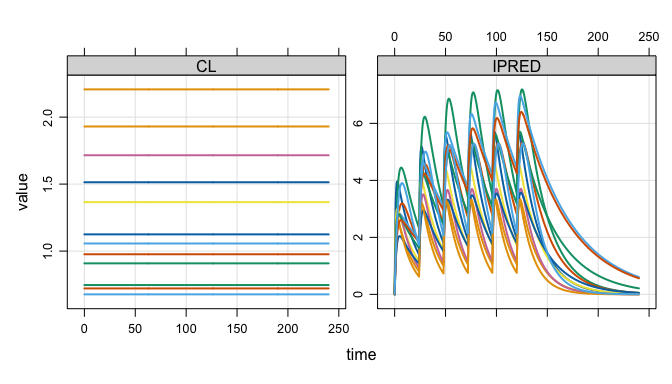
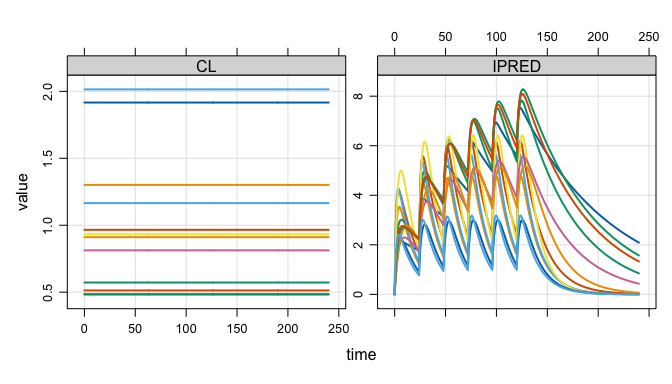
readme

diff --git a/README.md b/README.md
@@ -11,7 +11,10 @@
 Arrow](https://arrow.apache.org/docs/r/)-backed simulation output object
 for [mrgsolve](https://mrgsolve.org), greatly reducing the memory
 footprint of large simulations and providing a high-performance pipeline
-for summarizing huge simulation outputs.
+for summarizing huge simulation outputs. Simulation output objects in R
+claim ownership of files on disk and those files are automatically
+removed when owing object goes out of scope and becomes subject to the R
+garbage collector.
 
 ## Installation
 
@@ -49,15 +52,15 @@ out
 . Dim  : 1.4M 4
 . Files: 1 [11.9 Mb]
 . Owner: yes
-.     ID time      CL    IPRED
-. 1:   1  0.0 1.12485 0.000000
-. 2:   1  0.0 1.12485 0.000000
-. 3:   1  0.5 1.12485 2.175538
-. 4:   1  1.0 1.12485 3.231416
-. 5:   1  1.5 1.12485 3.717221
-. 6:   1  2.0 1.12485 3.913408
-. 7:   1  2.5 1.12485 3.963078
-. 8:   1  3.0 1.12485 3.939234
+.     ID time        CL     IPRED
+. 1:   1  0.0 0.4842856 0.0000000
+. 2:   1  0.0 0.4842856 0.0000000
+. 3:   1  0.5 0.4842856 0.9074613
+. 4:   1  1.0 0.4842856 1.4488692
+. 5:   1  1.5 0.4842856 1.7698885
+. 6:   1  2.0 0.4842856 1.9582301
+. 7:   1  2.5 0.4842856 2.0667081
+. 8:   1  3.0 0.4842856 2.1271241
 ```
 
 ## Very lightweight simulation output object
@@ -67,7 +70,7 @@ a pointer to the data in parquet files on your disk.
 
 ``` r
 basename(out$files)
-. [1] "mrgsims-ds-123d37139ddd4.parquet"
+. [1] "mrgsims-ds-138295379a151.parquet"
 ```
 
 This means there is almost nothing inside the object itself
@@ -110,23 +113,23 @@ head(out)
 . # A tibble: 6 × 4
 .      ID  time    CL IPRED
 .   <dbl> <dbl> <dbl> <dbl>
-. 1     1   0    1.12  0   
-. 2     1   0    1.12  0   
-. 3     1   0.5  1.12  2.18
-. 4     1   1    1.12  3.23
-. 5     1   1.5  1.12  3.72
-. 6     1   2    1.12  3.91
+. 1     1   0   0.484 0    
+. 2     1   0   0.484 0    
+. 3     1   0.5 0.484 0.907
+. 4     1   1   0.484 1.45 
+. 5     1   1.5 0.484 1.77 
+. 6     1   2   0.484 1.96
 
 tail(out)
 . # A tibble: 6 × 4
-.      ID  time    CL   IPRED
-.   <dbl> <dbl> <dbl>   <dbl>
-. 1  3000  238.  1.69 0.00318
-. 2  3000  238   1.69 0.00308
-. 3  3000  238.  1.69 0.00298
-. 4  3000  239   1.69 0.00289
-. 5  3000  240.  1.69 0.00280
-. 6  3000  240   1.69 0.00271
+.      ID  time    CL  IPRED
+.   <dbl> <dbl> <dbl>  <dbl>
+. 1  3000  238.  1.16 0.0374
+. 2  3000  238   1.16 0.0366
+. 3  3000  238.  1.16 0.0358
+. 4  3000  239   1.16 0.0351
+. 5  3000  240.  1.16 0.0343
+. 6  3000  240   1.16 0.0336
 
 dim(out)
 . [1] 1446000       4
@@ -140,16 +143,16 @@ as_tibble(out)
 . # A tibble: 1,446,000 × 4
 .       ID  time    CL IPRED
 .    <dbl> <dbl> <dbl> <dbl>
-.  1     1   0    1.12  0   
-.  2     1   0    1.12  0   
-.  3     1   0.5  1.12  2.18
-.  4     1   1    1.12  3.23
-.  5     1   1.5  1.12  3.72
-.  6     1   2    1.12  3.91
-.  7     1   2.5  1.12  3.96
-.  8     1   3    1.12  3.94
-.  9     1   3.5  1.12  3.88
-. 10     1   4    1.12  3.80
+.  1     1   0   0.484 0    
+.  2     1   0   0.484 0    
+.  3     1   0.5 0.484 0.907
+.  4     1   1   0.484 1.45 
+.  5     1   1.5 0.484 1.77 
+.  6     1   2   0.484 1.96 
+.  7     1   2.5 0.484 2.07 
+.  8     1   3   0.484 2.13 
+.  9     1   3.5 0.484 2.16 
+. 10     1   4   0.484 2.17 
 . # ℹ 1,445,990 more rows
 ```
 
@@ -175,16 +178,16 @@ as_duckdb_ds(out)
 . # Database: DuckDB 1.4.3 [kyleb@Darwin 24.6.0:R 4.5.2/:memory:]
 .       ID  time    CL IPRED
 .    <dbl> <dbl> <dbl> <dbl>
-.  1     1   0    1.12  0   
-.  2     1   0    1.12  0   
-.  3     1   0.5  1.12  2.18
-.  4     1   1    1.12  3.23
-.  5     1   1.5  1.12  3.72
-.  6     1   2    1.12  3.91
-.  7     1   2.5  1.12  3.96
-.  8     1   3    1.12  3.94
-.  9     1   3.5  1.12  3.88
-. 10     1   4    1.12  3.80
+.  1     1   0   0.484 0    
+.  2     1   0   0.484 0    
+.  3     1   0.5 0.484 0.907
+.  4     1   1   0.484 1.45 
+.  5     1   1.5 0.484 1.77 
+.  6     1   2   0.484 1.96 
+.  7     1   2.5 0.484 2.07 
+.  8     1   3   0.484 2.13 
+.  9     1   3.5 0.484 2.16 
+. 10     1   4   0.484 2.17 
 . # ℹ more rows
 ```
 
@@ -219,13 +222,13 @@ collect(dd)
 .    <dbl> <dbl> <int>
 .  1   0    0     6000
 .  2   0.5  1.11  3000
-.  3   1    1.80  3000
+.  3   1    1.81  3000
 .  4   1.5  2.26  3000
 .  5   2    2.57  3000
 .  6   2.5  2.78  3000
-.  7   3    2.93  3000
+.  7   3    2.92  3000
 .  8   3.5  3.02  3000
-.  9   4    3.08  3000
+.  9   4    3.07  3000
 . 10   4.5  3.11  3000
 . # ℹ 471 more rows
 ```
@@ -249,15 +252,15 @@ out2
 . Dim  : 14.5M 4
 . Files: 10 [119.1 Mb]
 . Owner: yes
-.     ID time       CL     IPRED
-. 1:   1  0.0 1.622721 0.0000000
-. 2:   1  0.0 1.622721 0.0000000
-. 3:   1  0.5 1.622721 0.6687251
-. 4:   1  1.0 1.622721 1.2090445
-. 5:   1  1.5 1.622721 1.6419841
-. 6:   1  2.0 1.622721 1.9852293
-. 7:   1  2.5 1.622721 2.2536526
-. 8:   1  3.0 1.622721 2.4597577
+.     ID time       CL    IPRED
+. 1:   1  0.0 1.553522 0.000000
+. 2:   1  0.0 1.553522 0.000000
+. 3:   1  0.5 1.553522 1.815295
+. 4:   1  1.0 1.553522 2.995864
+. 5:   1  1.5 1.553522 3.738009
+. 6:   1  2.0 1.553522 4.178355
+. 7:   1  2.5 1.553522 4.411949
+. 8:   1  3.0 1.553522 4.504865
 ```
 
 ## Files on disk are automagically managed
@@ -267,11 +270,11 @@ All `arrow` files are stored in the `tempdir()` in parquet format
 ``` r
 list_temp()
 . 11 files [131.1 Mb]
-. - mrgsims-ds-123d37139ddd4.parquet
-. - mrgsims-ds-124104b8835e0.parquet
+. - mrgsims-ds-138295379a151.parquet
+. - mrgsims-ds-138662024d7fd.parquet
 .    ...
-. - mrgsims-ds-1241432785e39.parquet
-. - mrgsims-ds-1241479ff6168.parquet
+. - mrgsims-ds-1386a29e4a93d.parquet
+. - mrgsims-ds-1386a342dc8f6.parquet
 ```
 
 This directory is eventually removed when the R session ends. Tools are
@@ -283,11 +286,11 @@ retain_temp(out2)
 
 list_temp()
 . 10 files [119.1 Mb]
-. - mrgsims-ds-124104b8835e0.parquet
-. - mrgsims-ds-124105b892bdd.parquet
+. - mrgsims-ds-138662024d7fd.parquet
+. - mrgsims-ds-1386652e03387.parquet
 .    ...
-. - mrgsims-ds-1241432785e39.parquet
-. - mrgsims-ds-1241479ff6168.parquet
+. - mrgsims-ds-1386a29e4a93d.parquet
+. - mrgsims-ds-1386a342dc8f6.parquet
 ```
 
 We also put a finalizer on each object so that, when it goes out of
@@ -329,8 +332,8 @@ cleaned up.
 ``` r
 gc()
 .            used  (Mb) gc trigger  (Mb) limit (Mb) max used  (Mb)
-. Ncells  1951471 104.3    3642107 194.6         NA  3203741 171.1
-. Vcells 15245497 116.4   29095718 222.0      16384 27048666 206.4
+. Ncells  1945863 104.0    3637465 194.3         NA  3200057 171.0
+. Vcells 15235268 116.3   29083437 221.9      16384 27038422 206.3
 
 list_temp()
 . 2 files [23.8 Mb]
